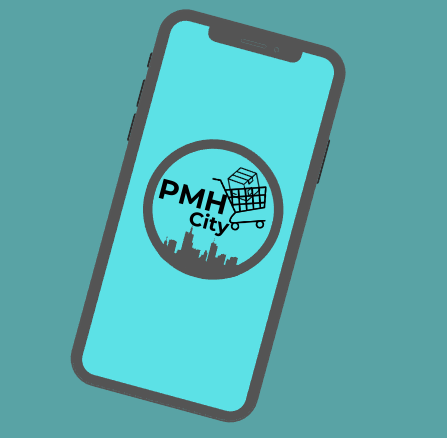
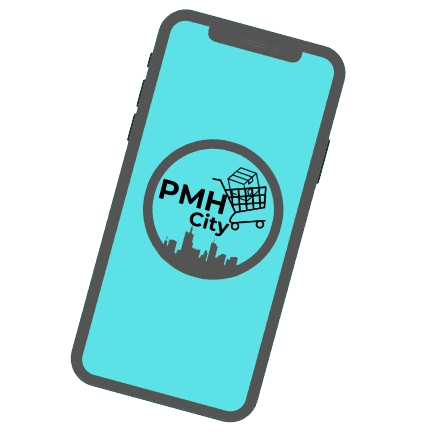
feat: initial version footer and contact

diff --git a/src/contact.html b/src/contact.html
@@ -91,20 +91,8 @@
 
 
               <div class="row mb-5">
-                <div class="col-lg-4">
-                  <div  class="service no-shadow align-items-center link horizontal d-flex active" data-aos="fade-left" data-aos-delay="0">
-                    <div class="service-icon color-1 mb-4">
-                      <svg xmlns="http://www.w3.org/2000/svg" width="16" height="16" fill="currentColor" class="bi bi-geo-alt-fill" viewBox="0 0 16 16">
-                        <path d="M8 16s6-5.686 6-10A6 6 0 0 0 2 6c0 4.314 6 10 6 10zm0-7a3 3 0 1 1 0-6 3 3 0 0 1 0 6z"/>
-                      </svg>
-                    </div> <!-- /.icon -->
-                    <div class="service-contents">
-                      <p>43 Raymouth Rd. Baltemoer, London 3910</p>
-                    </div> <!-- /.service-contents-->
-                  </div> <!-- /.service -->
-                </div>
 
-                <div class="col-lg-4">
+                <div class="col-lg-6">
                   <div  class="service no-shadow align-items-center link horizontal d-flex active" data-aos="fade-left" data-aos-delay="0">
                     <div class="service-icon color-1 mb-4">
                       <svg xmlns="http://www.w3.org/2000/svg" width="16" height="16" fill="currentColor" class="bi bi-envelope-fill" viewBox="0 0 16 16">
@@ -112,12 +100,12 @@
                       </svg>
                     </div> <!-- /.icon -->
                     <div class="service-contents">
-                      <p>info@yourdomain.com</p>
+                      <p>tettegaheric22@gmail.com</p>
                     </div> <!-- /.service-contents-->
                   </div> <!-- /.service -->
                 </div>
 
-                <div class="col-lg-4">
+                <div class="col-lg-6">
                   <div  class="service no-shadow align-items-center link horizontal d-flex active" data-aos="fade-left" data-aos-delay="0">
                     <div class="service-icon color-1 mb-4">
                       <svg xmlns="http://www.w3.org/2000/svg" width="16" height="16" fill="currentColor" class="bi bi-telephone-fill" viewBox="0 0 16 16">
@@ -125,7 +113,7 @@
                       </svg>
                     </div> <!-- /.icon -->
                     <div class="service-contents">
-                      <p>+1 294 3925 3939</p>
+                      <p>+33 648 407 556</p>
                     </div> <!-- /.service-contents-->
                   </div> <!-- /.service -->
                 </div>
@@ -180,78 +168,28 @@
 			<div class="container relative">
 
 				<div class="sofa-img">
-					<img src="images/sofa.png" alt="Image" class="img-fluid">
+					<img src="images/pmh/mobile.png" alt="Image" class="img-fluid">
 				</div>
 
-				<div class="row">
-					<div class="col-lg-8">
-						<div class="subscription-form">
-							<h3 class="d-flex align-items-center"><span class="me-1"><img src="images/envelope-outline.svg" alt="Image" class="img-fluid"></span><span>Subscribe to Newsletter</span></h3>
-
-							<form action="#" class="row g-3">
-								<div class="col-auto">
-									<input type="text" class="form-control" placeholder="Enter your name">
-								</div>
-								<div class="col-auto">
-									<input type="email" class="form-control" placeholder="Enter your email">
-								</div>
-								<div class="col-auto">
-									<button class="btn btn-primary">
-										<span class="fa fa-paper-plane"></span>
-									</button>
-								</div>
-							</form>
-
-						</div>
-					</div>
-				</div>
+				
 
 				<div class="row g-5 mb-5">
-					<div class="col-lg-4">
-						<div class="mb-4 footer-logo-wrap"><a href="#" class="footer-logo">Furni<span>.</span></a></div>
-						<p class="mb-4">Donec facilisis quam ut purus rutrum lobortis. Donec vitae odio quis nisl dapibus malesuada. Nullam ac aliquet velit. Aliquam vulputate velit imperdiet dolor tempor tristique. Pellentesque habitant</p>
+					<div class="col-lg-5">
+						<div class="mb-4 footer-logo-wrap"><a href="#" class="footer-logo">PMHcity<span></span></a></div>
+						<p class="mb-4">A local marketplace for each city allowing customers to search, and shop from thousands of affordable local listings available in their cities, a walk, bicycle, metro, tram, or bus away without the stress of jammed marketplace.</p>
 
 						<ul class="list-unstyled custom-social">
-							<li><a href="#"><span class="fa fa-brands fa-facebook-f"></span></a></li>
-							<li><a href="#"><span class="fa fa-brands fa-twitter"></span></a></li>
-							<li><a href="#"><span class="fa fa-brands fa-instagram"></span></a></li>
-							<li><a href="#"><span class="fa fa-brands fa-linkedin"></span></a></li>
+							<li><a href="https://www.linkedin.com/company/pmh-relay/"><span class="fa fa-brands fa-linkedin"></span></a></li>
 						</ul>
 					</div>
 
-					<div class="col-lg-8">
+					<div class="col-lg-6">
 						<div class="row links-wrap">
 							<div class="col-6 col-sm-6 col-md-3">
 								<ul class="list-unstyled">
-									<li><a href="#">About us</a></li>
-									<li><a href="#">Services</a></li>
-									<li><a href="#">Blog</a></li>
-									<li><a href="#">Contact us</a></li>
-								</ul>
-							</div>
-
-							<div class="col-6 col-sm-6 col-md-3">
-								<ul class="list-unstyled">
-									<li><a href="#">Support</a></li>
-									<li><a href="#">Knowledge base</a></li>
-									<li><a href="#">Live chat</a></li>
-								</ul>
-							</div>
-
-							<div class="col-6 col-sm-6 col-md-3">
-								<ul class="list-unstyled">
-									<li><a href="#">Jobs</a></li>
-									<li><a href="#">Our team</a></li>
-									<li><a href="#">Leadership</a></li>
-									<li><a href="#">Privacy Policy</a></li>
-								</ul>
-							</div>
-
-							<div class="col-6 col-sm-6 col-md-3">
-								<ul class="list-unstyled">
-									<li><a href="#">Nordic Chair</a></li>
-									<li><a href="#">Kruzo Aero</a></li>
-									<li><a href="#">Ergonomic Chair</a></li>
+									<li><a href="about.html">About us</a></li>
+									<li><a href="services.html">Services</a></li>
+									<li><a href="contact.html">Contact us</a></li>
 								</ul>
 							</div>
 						</div>
@@ -262,7 +200,7 @@
 				<div class="border-top copyright">
 					<div class="row pt-4">
 						<div class="col-lg-6">
-							<p class="mb-2 text-center text-lg-start">Copyright &copy;<script>document.write(new Date().getFullYear());</script>. All Rights Reserved. &mdash; Designed with love by <a href="https://untree.co">Untree.co</a> <!-- License information: https://untree.co/license/ -->
+							<p class="mb-2 text-center text-lg-start">Copyright &copy;<script>document.write(new Date().getFullYear());</script>. All Rights Reserved. Designed by <a href="https://untree.co">Untree.co</a> <!-- License information: https://untree.co/license/ -->
             </p>
 						</div>
 

diff --git a/src/about.html b/src/about.html
@@ -153,12 +153,12 @@
 					</div>
 				</div>
 
-				<div class="row">
+				<div class="row justify-content-center">
 
 					<!-- Start Column 1 -->
-					<div class="col-12 col-md-6 col-lg-3 mb-5 mb-md-0">
-						<img src="images/person_1.jpg" class="img-fluid mb-5">
-						<h3 clas><a href="#"><span class="">Lawson</span> Arnold</a></h3>
+					<div class="col-12 col-md-6 col-lg-4 mb-5 mb-md-0">
+						<img src="images/person_3.jpg" class="img-fluid mb-5">
+						<h3 clas><a href="#"><span class="">Patrik</span> White</a></h3>
             <span class="d-block position mb-4">CEO, Founder, Atty.</span>
             <p>Separated they live in.
             Separated they live in Bookmarksgrove right at the coast of the Semantics, a large language ocean.</p>
@@ -167,31 +167,7 @@
 					<!-- End Column 1 -->
 
 					<!-- Start Column 2 -->
-					<div class="col-12 col-md-6 col-lg-3 mb-5 mb-md-0">
-						<img src="images/person_2.jpg" class="img-fluid mb-5">
-
-						<h3 clas><a href="#"><span class="">Jeremy</span> Walker</a></h3>
-            <span class="d-block position mb-4">CEO, Founder, Atty.</span>
-            <p>Separated they live in.
-            Separated they live in Bookmarksgrove right at the coast of the Semantics, a large language ocean.</p>
-            <p class="mb-0"><a href="#" class="more dark">Learn More <span class="icon-arrow_forward"></span></a></p>
-
-					</div> 
-					<!-- End Column 2 -->
-
-					<!-- Start Column 3 -->
-					<div class="col-12 col-md-6 col-lg-3 mb-5 mb-md-0">
-						<img src="images/person_3.jpg" class="img-fluid mb-5">
-						<h3 clas><a href="#"><span class="">Patrik</span> White</a></h3>
-            <span class="d-block position mb-4">CEO, Founder, Atty.</span>
-            <p>Separated they live in.
-            Separated they live in Bookmarksgrove right at the coast of the Semantics, a large language ocean.</p>
-            <p class="mb-0"><a href="#" class="more dark">Learn More <span class="icon-arrow_forward"></span></a></p>
-					</div> 
-					<!-- End Column 3 -->
-
-					<!-- Start Column 4 -->
-					<div class="col-12 col-md-6 col-lg-3 mb-5 mb-md-0">
+					<div class="col-12 col-md-6 col-lg-4 mb-5 mb-md-0">
 						<img src="images/person_4.jpg" class="img-fluid mb-5">
 
 						<h3 clas><a href="#"><span class="">Kathryn</span> Ryan</a></h3>
@@ -202,7 +178,7 @@
 
           
 					</div> 
-					<!-- End Column 4 -->
+					<!-- End Column 2 -->
 
 					
 
@@ -210,107 +186,6 @@
 			</div>
 		</div>
 		<!-- End Team Section -->
-
-		
-
-		<!-- Start Testimonial Slider -->
-		<div class="testimonial-section before-footer-section">
-			<div class="container">
-				<div class="row">
-					<div class="col-lg-7 mx-auto text-center">
-						<h2 class="section-title">Testimonials</h2>
-					</div>
-				</div>
-
-				<div class="row justify-content-center">
-					<div class="col-lg-12">
-						<div class="testimonial-slider-wrap text-center">
-
-							<div id="testimonial-nav">
-								<span class="prev" data-controls="prev"><span class="fa fa-chevron-left"></span></span>
-								<span class="next" data-controls="next"><span class="fa fa-chevron-right"></span></span>
-							</div>
-
-							<div class="testimonial-slider">
-								
-								<div class="item">
-									<div class="row justify-content-center">
-										<div class="col-lg-8 mx-auto">
-
-											<div class="testimonial-block text-center">
-												<blockquote class="mb-5">
-													<p>&ldquo;Donec facilisis quam ut purus rutrum lobortis. Donec vitae odio quis nisl dapibus malesuada. Nullam ac aliquet velit. Aliquam vulputate velit imperdiet dolor tempor tristique. Pellentesque habitant morbi tristique senectus et netus et malesuada fames ac turpis egestas. Integer convallis volutpat dui quis scelerisque.&rdquo;</p>
-												</blockquote>
-
-												<div class="author-info">
-													<div class="author-pic">
-														<img src="images/person-1.png" alt="Maria Jones" class="img-fluid">
-													</div>
-													<h3 class="font-weight-bold">Maria Jones</h3>
-													<span class="position d-block mb-3">CEO, Co-Founder, XYZ Inc.</span>
-												</div>
-											</div>
-
-										</div>
-									</div>
-								</div> 
-								<!-- END item -->
-
-								<div class="item">
-									<div class="row justify-content-center">
-										<div class="col-lg-8 mx-auto">
-
-											<div class="testimonial-block text-center">
-												<blockquote class="mb-5">
-													<p>&ldquo;Donec facilisis quam ut purus rutrum lobortis. Donec vitae odio quis nisl dapibus malesuada. Nullam ac aliquet velit. Aliquam vulputate velit imperdiet dolor tempor tristique. Pellentesque habitant morbi tristique senectus et netus et malesuada fames ac turpis egestas. Integer convallis volutpat dui quis scelerisque.&rdquo;</p>
-												</blockquote>
-
-												<div class="author-info">
-													<div class="author-pic">
-														<img src="images/person-1.png" alt="Maria Jones" class="img-fluid">
-													</div>
-													<h3 class="font-weight-bold">Maria Jones</h3>
-													<span class="position d-block mb-3">CEO, Co-Founder, XYZ Inc.</span>
-												</div>
-											</div>
-
-										</div>
-									</div>
-								</div> 
-								<!-- END item -->
-
-								<div class="item">
-									<div class="row justify-content-center">
-										<div class="col-lg-8 mx-auto">
-
-											<div class="testimonial-block text-center">
-												<blockquote class="mb-5">
-													<p>&ldquo;Donec facilisis quam ut purus rutrum lobortis. Donec vitae odio quis nisl dapibus malesuada. Nullam ac aliquet velit. Aliquam vulputate velit imperdiet dolor tempor tristique. Pellentesque habitant morbi tristique senectus et netus et malesuada fames ac turpis egestas. Integer convallis volutpat dui quis scelerisque.&rdquo;</p>
-												</blockquote>
-
-												<div class="author-info">
-													<div class="author-pic">
-														<img src="images/person-1.png" alt="Maria Jones" class="img-fluid">
-													</div>
-													<h3 class="font-weight-bold">Maria Jones</h3>
-													<span class="position d-block mb-3">CEO, Co-Founder, XYZ Inc.</span>
-												</div>
-											</div>
-
-										</div>
-									</div>
-								</div> 
-								<!-- END item -->
-
-							</div>
-
-						</div>
-					</div>
-				</div>
-			</div>
-		</div>
-		<!-- End Testimonial Slider -->
-
 		
 
 		<!-- Start Footer Section -->
@@ -318,7 +193,7 @@
 			<div class="container relative">
 
 				<div class="sofa-img">
-					<img src="images/sofa.png" alt="Image" class="img-fluid">
+					<img src="images/pmh/mobile.png" alt="Image" class="img-fluid">
 				</div>
 
 				<div class="row">

diff --git a/src/index.html b/src/index.html
@@ -176,28 +176,28 @@
 			<div class="container relative">
 
 				<div class="sofa-img">
-					<img src="images/sofa.png" alt="Image" class="img-fluid">
+					<img src="images/pmh/mobile.png" alt="Image" class="img-fluid">
 				</div>
 
 				
 
 				<div class="row g-5 mb-5">
-					<div class="col-lg-4">
+					<div class="col-lg-5">
 						<div class="mb-4 footer-logo-wrap"><a href="#" class="footer-logo">PMHcity<span></span></a></div>
-						<p class="mb-4">A Marketplace Built for Your City! Connecting local retailers and consumers for faster, eco-friendly, and personalized shopping experiences</p>
+						<p class="mb-4">A local marketplace for each city allowing customers to search, and shop from thousands of affordable local listings available in their cities, a walk, bicycle, metro, tram, or bus away without the stress of jammed marketplace.</p>
 
 						<ul class="list-unstyled custom-social">
 							<li><a href="https://www.linkedin.com/company/pmh-relay/"><span class="fa fa-brands fa-linkedin"></span></a></li>
 						</ul>
 					</div>
 
-					<div class="col-lg-8">
+					<div class="col-lg-6">
 						<div class="row links-wrap">
 							<div class="col-6 col-sm-6 col-md-3">
 								<ul class="list-unstyled">
-									<li><a href="#">About us</a></li>
-									<li><a href="#">Services</a></li>
-									<li><a href="#">Contact us</a></li>
+									<li><a href="about.html">About us</a></li>
+									<li><a href="services.html">Services</a></li>
+									<li><a href="contact.html">Contact us</a></li>
 								</ul>
 							</div>
 						</div>
@@ -208,7 +208,7 @@
 				<div class="border-top copyright">
 					<div class="row pt-4">
 						<div class="col-lg-6">
-							<p class="mb-2 text-center text-lg-start">Copyright &copy;<script>document.write(new Date().getFullYear());</script>. All Rights Reserved. &mdash; Designed with love by <a href="https://untree.co">Untree.co</a> <!-- License information: https://untree.co/license/ -->
+							<p class="mb-2 text-center text-lg-start">Copyright &copy;<script>document.write(new Date().getFullYear());</script>. All Rights Reserved. Designed by <a href="https://untree.co">Untree.co</a> <!-- License information: https://untree.co/license/ -->
             </p>
 						</div>
 
